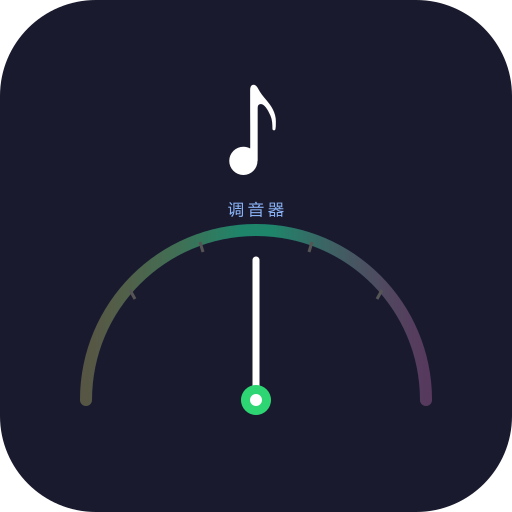
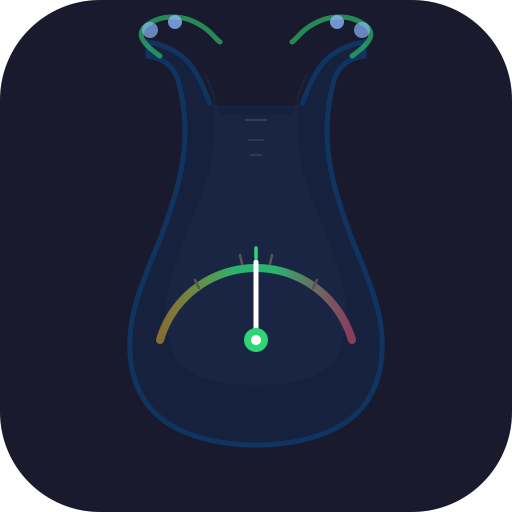
🎨 重新设计 PWA 图标：琵琶剪影 + 调音器指针
- 简化琵琶梨形剪影作为主视觉
- 琴身内嵌调音器弧形轨道 + 指针
- 四个弦轴代表四根弦（缠弦/老弦/中弦/子弦）
- 琴颈品丝细节 + 顶部弯曲装饰
- 保留深蓝配色方案
- manifest.json 更新 app 名称为「琵琶练琴伴侣」
- apple-touch-icon 改用 PNG 格式

diff --git a/index.html b/index.html
@@ -5,7 +5,7 @@
 <meta name="viewport" content="width=device-width,initial-scale=1.0,user-scalable=no">
 <title>琵琶练琴伴侣</title>
 <link rel="manifest" href="manifest.json">
-<link rel="apple-touch-icon" href="icon.svg">
+<link rel="apple-touch-icon" href="icon-192.png">
 <meta name="apple-mobile-web-app-capable" content="yes">
 <meta name="apple-mobile-web-app-status-bar-style" content="black-translucent">
 <style>